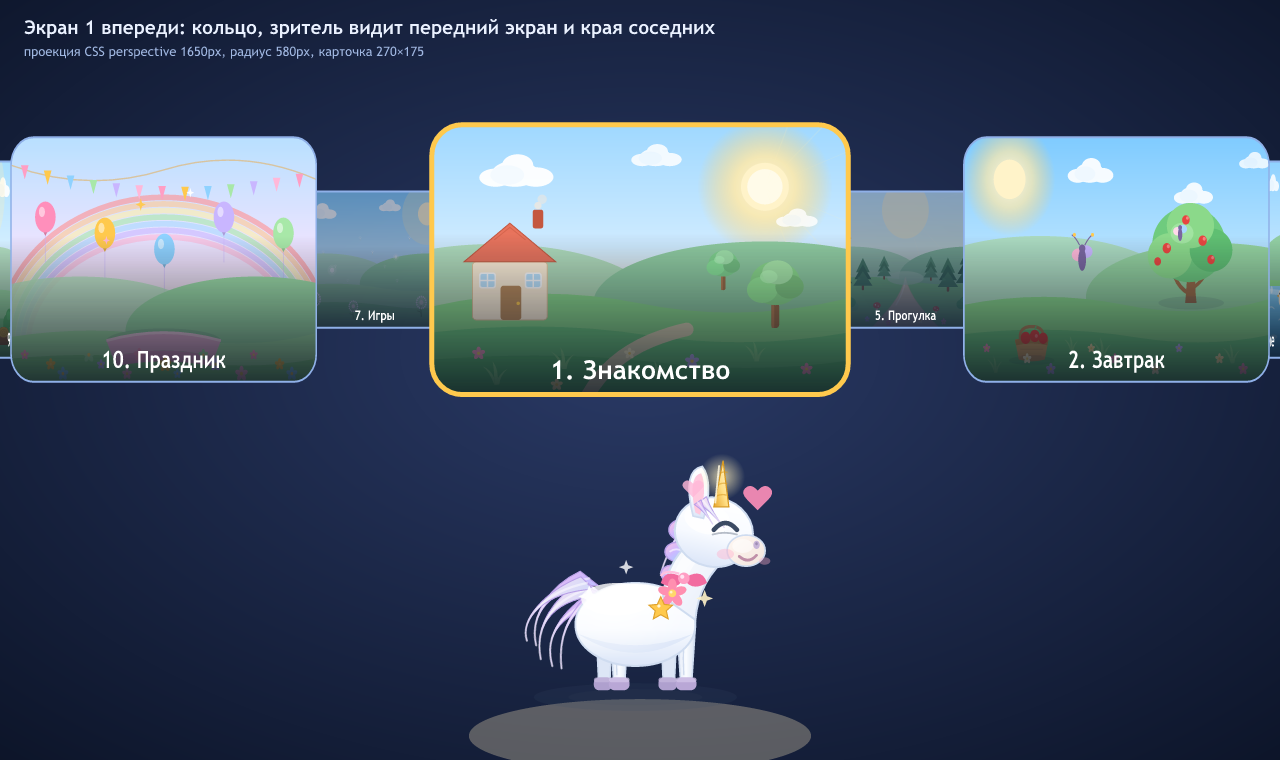
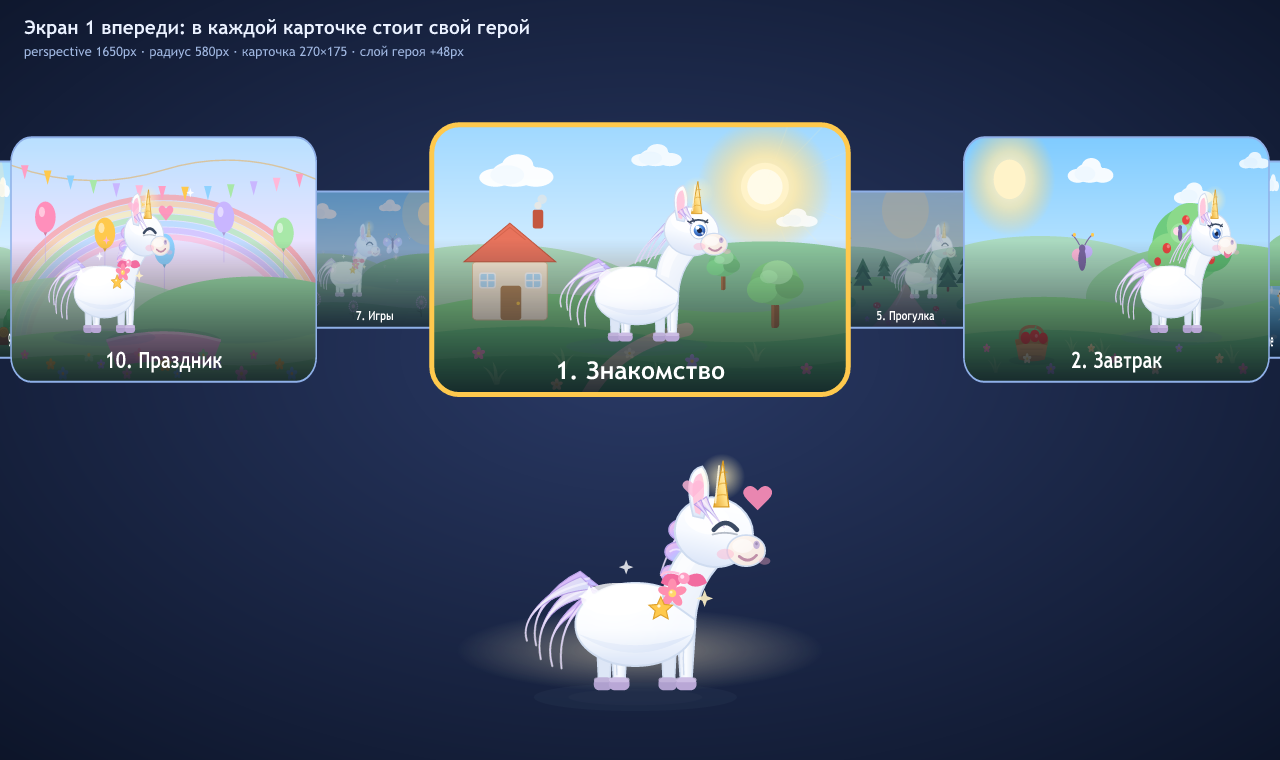
в карточках 3D-вида появились герои: отдельный слой ближе к зрителю, сцена вокруг видна

diff --git a/3d.html b/3d.html
@@ -54,19 +54,28 @@ body{
 /* кольцо экранов — поднято, чтобы внизу осталось место героине */
 #ring{position:absolute;transform:translateY(var(--lift));transform-style:preserve-3d}
 
-/* карточки экранов */
+/* карточки экранов.
+   ВАЖНО: у .card НЕТ overflow:hidden — он «сплющивает» 3D и убивает смещение героя.
+   Обрезаем фон отдельно, на .art. Герой при этом может чуть вылезать за рамку — это и даёт объём. */
 .card{position:absolute;width:var(--cw);height:var(--ch);
   left:calc(var(--cw) / -2); top:calc(var(--ch) / -2);
   transform-style:preserve-3d;
   transform:rotateY(calc(var(--i) * 36deg)) translateZ(var(--R));
-  border-radius:18px;overflow:hidden;cursor:pointer;
+  border-radius:18px;cursor:pointer;
   box-shadow:var(--sh);background:#0e1730;
   transition:box-shadow .35s ease, filter .35s ease;}
-.card .art{position:absolute;inset:0}
+.card .art{position:absolute;inset:0;border-radius:18px;overflow:hidden}
 .card .art svg{width:100%;height:100%;display:block}
-.card .veil{position:absolute;inset:0;background:linear-gradient(180deg,rgba(8,14,30,0) 40%,rgba(8,14,30,.82) 100%)}
+/* герой — отдельный слой БЛИЖЕ к зрителю: при повороте кольца он смещается относительно фона,
+   и глаз читает это как глубину. Это не 3D-модель, но объём в движении виден. */
+.card .hero3{position:absolute;left:50%;bottom:15%;width:var(--hw,48%);
+  transform:translateX(-50%) translateZ(48px);transform-origin:50% 100%;
+  filter:drop-shadow(0 12px 16px rgba(6,12,26,.6))}
+.card .hero3 svg{width:100%;height:auto;display:block;overflow:visible}
+.card .veil{position:absolute;inset:0;border-radius:18px;
+  background:linear-gradient(180deg,rgba(8,14,30,0) 42%,rgba(8,14,30,.86) 100%)}
 .card .cap{position:absolute;left:0;right:0;bottom:0;padding:8px 10px 9px;
-  display:flex;align-items:center;gap:8px}
+  display:flex;align-items:center;gap:8px;transform:translateZ(54px)}
 .card .num{flex:0 0 auto;width:26px;height:26px;border-radius:50%;
   background:rgba(255,255,255,.94);color:#3B4A63;font-weight:800;font-size:14px;
   display:flex;align-items:center;justify-content:center}
@@ -1176,6 +1185,17 @@ function setScene(name){
   node.innerHTML='<svg viewBox="0 0 800 520" preserveAspectRatio="xMidYMid slice" xmlns="http://www.w3.org/2000/svg">'+fn(p)+'</svg>';
 }
 
+function blanketSVG(){
+  return '<g>'
+    +'<path d="M62 168 q66 -26 136 0 q14 6 12 24 q-2 16 -20 16 h-120 q-18 0 -20 -16 q-2 -18 12 -24z" fill="#C9B6FF"/>'
+    +'<path d="M62 178 q66 -22 136 0 q10 4 10 14 q-2 14 -18 14 h-120 q-16 0 -18 -14 q0 -10 10 -14z" fill="#A88FE8"/>'
+    +'<circle cx="104" cy="176" r="5" fill="#FFFFFF" opacity=".75"/>'
+    +'<circle cx="150" cy="170" r="5" fill="#FFFFFF" opacity=".75"/>'
+    +'<circle cx="176" cy="180" r="4" fill="#FFFFFF" opacity=".65"/>'
+    +'<path d="M70 196 q60 -12 120 0" stroke="#8F76D8" stroke-width="2" fill="none" opacity=".6"/>'
+    +'</g>';
+}
+
 /* =========================================================
    ЧАСТЬ 2. 3D-ВИД
    ========================================================= */
@@ -1192,6 +1212,26 @@ const SCENES3D=[
   {n:10, s:'party',     t:'Праздник',   d:'Салют и диплом заботы'}
 ];
 const STEP=360/SCENES3D.length;   /* 36° между экранами */
+
+/* Кто стоит в каждой сцене. hw — ширина слоя героя в % от карточки (зависит от пропорций
+   viewBox: чем шире картинка, тем шире слой). Состояние единорожки совпадает с тем,
+   что происходит на экране: на купании грязная, после гривы — с косичкой и т.д. */
+const UNI=(o)=>unicornSVG(Object.assign({mood:'calm',mane:'messy',dirt:false,clean:false},o||{}));
+const HERO_ART=[
+  {hw:'48%', vb:'0 0 260 230', make:()=>UNI({mood:'calm'})},
+  {hw:'48%', vb:'0 0 260 230', make:()=>UNI({mood:'hungry'})},
+  {hw:'48%', vb:'0 0 260 230', make:()=>UNI({mood:'calm',dirt:true,clean:false})},
+  {hw:'48%', vb:'0 0 260 230', make:()=>UNI({mood:'calm',mane:'messy'})},
+  {hw:'48%', vb:'0 0 260 230', make:()=>UNI({mood:'happy',mane:'brushed',clean:true})},
+  {hw:'48%', vb:'0 0 260 230', make:()=>UNI({mood:'happy',mane:'braid',clean:true,acc:['bow','flower','star']})},
+  {hw:'60%', vb:'0 0 330 235', make:()=>UNI({mood:'happy',mane:'braid',clean:true,acc:['bow','flower','star']})
+      +'<g transform="translate(238,24) scale(0.52)">'+butterflySVG()+'</g>'},
+  {hw:'48%', vb:'0 0 260 230', make:()=>UNI({mood:'sleepy',mane:'braid',clean:true,acc:['bow']})+blanketSVG()},
+  {hw:'78%', vb:'0 0 430 235', make:()=>'<g transform="translate(-38,0)">'+UNI({mood:'happy',mane:'braid',clean:true})+'</g>'
+      +'<g transform="translate(222,110) scale(0.7)">'+bunnySVG({carrot:true})+'</g>'
+      +'<g transform="translate(330,125) scale(0.6)">'+birdSVG()+'</g>'},
+  {hw:'48%', vb:'0 0 260 230', make:()=>UNI({mood:'happy',mane:'braid',clean:true,acc:['bow','flower','star'],hearts:true})}
+];
 
 const world=document.getElementById('world');
 const ring=document.getElementById('ring');
@@ -1214,8 +1254,11 @@ SCENES3D.forEach((sc,i)=>{
   const c=document.createElement('div');
   c.className='card';
   c.style.setProperty('--i', i);
+  const ha=HERO_ART[i];
+  c.style.setProperty('--hw', ha.hw);
   c.innerHTML='<div class="art">'+svgWrap(SCENES[sc.s]('c3d'+i+'_'),'0 0 800 520')+'</div>'
     +'<div class="veil"></div>'
+    +'<div class="hero3">'+svgWrap(ha.make(), ha.vb)+'</div>'
     +'<div class="cap"><div class="num">'+sc.n+'</div>'
     +'<div><div class="tt">'+sc.t+'</div><div class="dd">'+sc.d+'</div></div>'
     +'<div class="go" title="Начать игру с этого экрана">▶</div></div>';

diff --git a/deploy/3d.html b/deploy/3d.html
@@ -54,19 +54,28 @@ body{
 /* кольцо экранов — поднято, чтобы внизу осталось место героине */
 #ring{position:absolute;transform:translateY(var(--lift));transform-style:preserve-3d}
 
-/* карточки экранов */
+/* карточки экранов.
+   ВАЖНО: у .card НЕТ overflow:hidden — он «сплющивает» 3D и убивает смещение героя.
+   Обрезаем фон отдельно, на .art. Герой при этом может чуть вылезать за рамку — это и даёт объём. */
 .card{position:absolute;width:var(--cw);height:var(--ch);
   left:calc(var(--cw) / -2); top:calc(var(--ch) / -2);
   transform-style:preserve-3d;
   transform:rotateY(calc(var(--i) * 36deg)) translateZ(var(--R));
-  border-radius:18px;overflow:hidden;cursor:pointer;
+  border-radius:18px;cursor:pointer;
   box-shadow:var(--sh);background:#0e1730;
   transition:box-shadow .35s ease, filter .35s ease;}
-.card .art{position:absolute;inset:0}
+.card .art{position:absolute;inset:0;border-radius:18px;overflow:hidden}
 .card .art svg{width:100%;height:100%;display:block}
-.card .veil{position:absolute;inset:0;background:linear-gradient(180deg,rgba(8,14,30,0) 40%,rgba(8,14,30,.82) 100%)}
+/* герой — отдельный слой БЛИЖЕ к зрителю: при повороте кольца он смещается относительно фона,
+   и глаз читает это как глубину. Это не 3D-модель, но объём в движении виден. */
+.card .hero3{position:absolute;left:50%;bottom:15%;width:var(--hw,48%);
+  transform:translateX(-50%) translateZ(48px);transform-origin:50% 100%;
+  filter:drop-shadow(0 12px 16px rgba(6,12,26,.6))}
+.card .hero3 svg{width:100%;height:auto;display:block;overflow:visible}
+.card .veil{position:absolute;inset:0;border-radius:18px;
+  background:linear-gradient(180deg,rgba(8,14,30,0) 42%,rgba(8,14,30,.86) 100%)}
 .card .cap{position:absolute;left:0;right:0;bottom:0;padding:8px 10px 9px;
-  display:flex;align-items:center;gap:8px}
+  display:flex;align-items:center;gap:8px;transform:translateZ(54px)}
 .card .num{flex:0 0 auto;width:26px;height:26px;border-radius:50%;
   background:rgba(255,255,255,.94);color:#3B4A63;font-weight:800;font-size:14px;
   display:flex;align-items:center;justify-content:center}
@@ -1176,6 +1185,17 @@ function setScene(name){
   node.innerHTML='<svg viewBox="0 0 800 520" preserveAspectRatio="xMidYMid slice" xmlns="http://www.w3.org/2000/svg">'+fn(p)+'</svg>';
 }
 
+function blanketSVG(){
+  return '<g>'
+    +'<path d="M62 168 q66 -26 136 0 q14 6 12 24 q-2 16 -20 16 h-120 q-18 0 -20 -16 q-2 -18 12 -24z" fill="#C9B6FF"/>'
+    +'<path d="M62 178 q66 -22 136 0 q10 4 10 14 q-2 14 -18 14 h-120 q-16 0 -18 -14 q0 -10 10 -14z" fill="#A88FE8"/>'
+    +'<circle cx="104" cy="176" r="5" fill="#FFFFFF" opacity=".75"/>'
+    +'<circle cx="150" cy="170" r="5" fill="#FFFFFF" opacity=".75"/>'
+    +'<circle cx="176" cy="180" r="4" fill="#FFFFFF" opacity=".65"/>'
+    +'<path d="M70 196 q60 -12 120 0" stroke="#8F76D8" stroke-width="2" fill="none" opacity=".6"/>'
+    +'</g>';
+}
+
 /* =========================================================
    ЧАСТЬ 2. 3D-ВИД
    ========================================================= */
@@ -1192,6 +1212,26 @@ const SCENES3D=[
   {n:10, s:'party',     t:'Праздник',   d:'Салют и диплом заботы'}
 ];
 const STEP=360/SCENES3D.length;   /* 36° между экранами */
+
+/* Кто стоит в каждой сцене. hw — ширина слоя героя в % от карточки (зависит от пропорций
+   viewBox: чем шире картинка, тем шире слой). Состояние единорожки совпадает с тем,
+   что происходит на экране: на купании грязная, после гривы — с косичкой и т.д. */
+const UNI=(o)=>unicornSVG(Object.assign({mood:'calm',mane:'messy',dirt:false,clean:false},o||{}));
+const HERO_ART=[
+  {hw:'48%', vb:'0 0 260 230', make:()=>UNI({mood:'calm'})},
+  {hw:'48%', vb:'0 0 260 230', make:()=>UNI({mood:'hungry'})},
+  {hw:'48%', vb:'0 0 260 230', make:()=>UNI({mood:'calm',dirt:true,clean:false})},
+  {hw:'48%', vb:'0 0 260 230', make:()=>UNI({mood:'calm',mane:'messy'})},
+  {hw:'48%', vb:'0 0 260 230', make:()=>UNI({mood:'happy',mane:'brushed',clean:true})},
+  {hw:'48%', vb:'0 0 260 230', make:()=>UNI({mood:'happy',mane:'braid',clean:true,acc:['bow','flower','star']})},
+  {hw:'60%', vb:'0 0 330 235', make:()=>UNI({mood:'happy',mane:'braid',clean:true,acc:['bow','flower','star']})
+      +'<g transform="translate(238,24) scale(0.52)">'+butterflySVG()+'</g>'},
+  {hw:'48%', vb:'0 0 260 230', make:()=>UNI({mood:'sleepy',mane:'braid',clean:true,acc:['bow']})+blanketSVG()},
+  {hw:'78%', vb:'0 0 430 235', make:()=>'<g transform="translate(-38,0)">'+UNI({mood:'happy',mane:'braid',clean:true})+'</g>'
+      +'<g transform="translate(222,110) scale(0.7)">'+bunnySVG({carrot:true})+'</g>'
+      +'<g transform="translate(330,125) scale(0.6)">'+birdSVG()+'</g>'},
+  {hw:'48%', vb:'0 0 260 230', make:()=>UNI({mood:'happy',mane:'braid',clean:true,acc:['bow','flower','star'],hearts:true})}
+];
 
 const world=document.getElementById('world');
 const ring=document.getElementById('ring');
@@ -1214,8 +1254,11 @@ SCENES3D.forEach((sc,i)=>{
   const c=document.createElement('div');
   c.className='card';
   c.style.setProperty('--i', i);
+  const ha=HERO_ART[i];
+  c.style.setProperty('--hw', ha.hw);
   c.innerHTML='<div class="art">'+svgWrap(SCENES[sc.s]('c3d'+i+'_'),'0 0 800 520')+'</div>'
     +'<div class="veil"></div>'
+    +'<div class="hero3">'+svgWrap(ha.make(), ha.vb)+'</div>'
     +'<div class="cap"><div class="num">'+sc.n+'</div>'
     +'<div><div class="tt">'+sc.t+'</div><div class="dd">'+sc.d+'</div></div>'
     +'<div class="go" title="Начать игру с этого экрана">▶</div></div>';

diff --git a/_3d_template.html b/_3d_template.html
@@ -54,19 +54,28 @@ body{
 /* кольцо экранов — поднято, чтобы внизу осталось место героине */
 #ring{position:absolute;transform:translateY(var(--lift));transform-style:preserve-3d}
 
-/* карточки экранов */
+/* карточки экранов.
+   ВАЖНО: у .card НЕТ overflow:hidden — он «сплющивает» 3D и убивает смещение героя.
+   Обрезаем фон отдельно, на .art. Герой при этом может чуть вылезать за рамку — это и даёт объём. */
 .card{position:absolute;width:var(--cw);height:var(--ch);
   left:calc(var(--cw) / -2); top:calc(var(--ch) / -2);
   transform-style:preserve-3d;
   transform:rotateY(calc(var(--i) * 36deg)) translateZ(var(--R));
-  border-radius:18px;overflow:hidden;cursor:pointer;
+  border-radius:18px;cursor:pointer;
   box-shadow:var(--sh);background:#0e1730;
   transition:box-shadow .35s ease, filter .35s ease;}
-.card .art{position:absolute;inset:0}
+.card .art{position:absolute;inset:0;border-radius:18px;overflow:hidden}
 .card .art svg{width:100%;height:100%;display:block}
-.card .veil{position:absolute;inset:0;background:linear-gradient(180deg,rgba(8,14,30,0) 40%,rgba(8,14,30,.82) 100%)}
+/* герой — отдельный слой БЛИЖЕ к зрителю: при повороте кольца он смещается относительно фона,
+   и глаз читает это как глубину. Это не 3D-модель, но объём в движении виден. */
+.card .hero3{position:absolute;left:50%;bottom:15%;width:var(--hw,48%);
+  transform:translateX(-50%) translateZ(48px);transform-origin:50% 100%;
+  filter:drop-shadow(0 12px 16px rgba(6,12,26,.6))}
+.card .hero3 svg{width:100%;height:auto;display:block;overflow:visible}
+.card .veil{position:absolute;inset:0;border-radius:18px;
+  background:linear-gradient(180deg,rgba(8,14,30,0) 42%,rgba(8,14,30,.86) 100%)}
 .card .cap{position:absolute;left:0;right:0;bottom:0;padding:8px 10px 9px;
-  display:flex;align-items:center;gap:8px}
+  display:flex;align-items:center;gap:8px;transform:translateZ(54px)}
 .card .num{flex:0 0 auto;width:26px;height:26px;border-radius:50%;
   background:rgba(255,255,255,.94);color:#3B4A63;font-weight:800;font-size:14px;
   display:flex;align-items:center;justify-content:center}
@@ -187,6 +196,26 @@ const SCENES3D=[
 ];
 const STEP=360/SCENES3D.length;   /* 36° между экранами */
 
+/* Кто стоит в каждой сцене. hw — ширина слоя героя в % от карточки (зависит от пропорций
+   viewBox: чем шире картинка, тем шире слой). Состояние единорожки совпадает с тем,
+   что происходит на экране: на купании грязная, после гривы — с косичкой и т.д. */
+const UNI=(o)=>unicornSVG(Object.assign({mood:'calm',mane:'messy',dirt:false,clean:false},o||{}));
+const HERO_ART=[
+  {hw:'48%', vb:'0 0 260 230', make:()=>UNI({mood:'calm'})},
+  {hw:'48%', vb:'0 0 260 230', make:()=>UNI({mood:'hungry'})},
+  {hw:'48%', vb:'0 0 260 230', make:()=>UNI({mood:'calm',dirt:true,clean:false})},
+  {hw:'48%', vb:'0 0 260 230', make:()=>UNI({mood:'calm',mane:'messy'})},
+  {hw:'48%', vb:'0 0 260 230', make:()=>UNI({mood:'happy',mane:'brushed',clean:true})},
+  {hw:'48%', vb:'0 0 260 230', make:()=>UNI({mood:'happy',mane:'braid',clean:true,acc:['bow','flower','star']})},
+  {hw:'60%', vb:'0 0 330 235', make:()=>UNI({mood:'happy',mane:'braid',clean:true,acc:['bow','flower','star']})
+      +'<g transform="translate(238,24) scale(0.52)">'+butterflySVG()+'</g>'},
+  {hw:'48%', vb:'0 0 260 230', make:()=>UNI({mood:'sleepy',mane:'braid',clean:true,acc:['bow']})+blanketSVG()},
+  {hw:'78%', vb:'0 0 430 235', make:()=>'<g transform="translate(-38,0)">'+UNI({mood:'happy',mane:'braid',clean:true})+'</g>'
+      +'<g transform="translate(222,110) scale(0.7)">'+bunnySVG({carrot:true})+'</g>'
+      +'<g transform="translate(330,125) scale(0.6)">'+birdSVG()+'</g>'},
+  {hw:'48%', vb:'0 0 260 230', make:()=>UNI({mood:'happy',mane:'braid',clean:true,acc:['bow','flower','star'],hearts:true})}
+];
+
 const world=document.getElementById('world');
 const ring=document.getElementById('ring');
 
@@ -208,8 +237,11 @@ SCENES3D.forEach((sc,i)=>{
   const c=document.createElement('div');
   c.className='card';
   c.style.setProperty('--i', i);
+  const ha=HERO_ART[i];
+  c.style.setProperty('--hw', ha.hw);
   c.innerHTML='<div class="art">'+svgWrap(SCENES[sc.s]('c3d'+i+'_'),'0 0 800 520')+'</div>'
     +'<div class="veil"></div>'
+    +'<div class="hero3">'+svgWrap(ha.make(), ha.vb)+'</div>'
     +'<div class="cap"><div class="num">'+sc.n+'</div>'
     +'<div><div class="tt">'+sc.t+'</div><div class="dd">'+sc.d+'</div></div>'
     +'<div class="go" title="Начать игру с этого экрана">▶</div></div>';

diff --git a/deploy/index.html b/deploy/index.html
@@ -1385,6 +1385,17 @@ function setScene(name){
   node.innerHTML='<svg viewBox="0 0 800 520" preserveAspectRatio="xMidYMid slice" xmlns="http://www.w3.org/2000/svg">'+fn(p)+'</svg>';
 }
 
+function blanketSVG(){
+  return '<g>'
+    +'<path d="M62 168 q66 -26 136 0 q14 6 12 24 q-2 16 -20 16 h-120 q-18 0 -20 -16 q-2 -18 12 -24z" fill="#C9B6FF"/>'
+    +'<path d="M62 178 q66 -22 136 0 q10 4 10 14 q-2 14 -18 14 h-120 q-16 0 -18 -14 q0 -10 10 -14z" fill="#A88FE8"/>'
+    +'<circle cx="104" cy="176" r="5" fill="#FFFFFF" opacity=".75"/>'
+    +'<circle cx="150" cy="170" r="5" fill="#FFFFFF" opacity=".75"/>'
+    +'<circle cx="176" cy="180" r="4" fill="#FFFFFF" opacity=".65"/>'
+    +'<path d="M70 196 q60 -12 120 0" stroke="#8F76D8" stroke-width="2" fill="none" opacity=".6"/>'
+    +'</g>';
+}
+
 /* =========================================================
    K. ЭКРАНЫ СКАЗКИ
    ========================================================= */
@@ -1830,17 +1841,6 @@ const SCREENS = [
       root.appendChild(box); root.appendChild(hint); root.appendChild(row); root.appendChild(card);
     } }
 ];
-
-function blanketSVG(){
-  return '<g>'
-    +'<path d="M62 168 q66 -26 136 0 q14 6 12 24 q-2 16 -20 16 h-120 q-18 0 -20 -16 q-2 -18 12 -24z" fill="#C9B6FF"/>'
-    +'<path d="M62 178 q66 -22 136 0 q10 4 10 14 q-2 14 -18 14 h-120 q-16 0 -18 -14 q0 -10 10 -14z" fill="#A88FE8"/>'
-    +'<circle cx="104" cy="176" r="5" fill="#FFFFFF" opacity=".75"/>'
-    +'<circle cx="150" cy="170" r="5" fill="#FFFFFF" opacity=".75"/>'
-    +'<circle cx="176" cy="180" r="4" fill="#FFFFFF" opacity=".65"/>'
-    +'<path d="M70 196 q60 -12 120 0" stroke="#8F76D8" stroke-width="2" fill="none" opacity=".6"/>'
-    +'</g>';
-}
 
 /* =========================================================
    L. НАВИГАЦИЯ И ФИНАЛ

diff --git a/index.html b/index.html
@@ -1385,6 +1385,17 @@ function setScene(name){
   node.innerHTML='<svg viewBox="0 0 800 520" preserveAspectRatio="xMidYMid slice" xmlns="http://www.w3.org/2000/svg">'+fn(p)+'</svg>';
 }
 
+function blanketSVG(){
+  return '<g>'
+    +'<path d="M62 168 q66 -26 136 0 q14 6 12 24 q-2 16 -20 16 h-120 q-18 0 -20 -16 q-2 -18 12 -24z" fill="#C9B6FF"/>'
+    +'<path d="M62 178 q66 -22 136 0 q10 4 10 14 q-2 14 -18 14 h-120 q-16 0 -18 -14 q0 -10 10 -14z" fill="#A88FE8"/>'
+    +'<circle cx="104" cy="176" r="5" fill="#FFFFFF" opacity=".75"/>'
+    +'<circle cx="150" cy="170" r="5" fill="#FFFFFF" opacity=".75"/>'
+    +'<circle cx="176" cy="180" r="4" fill="#FFFFFF" opacity=".65"/>'
+    +'<path d="M70 196 q60 -12 120 0" stroke="#8F76D8" stroke-width="2" fill="none" opacity=".6"/>'
+    +'</g>';
+}
+
 /* =========================================================
    K. ЭКРАНЫ СКАЗКИ
    ========================================================= */
@@ -1830,17 +1841,6 @@ const SCREENS = [
       root.appendChild(box); root.appendChild(hint); root.appendChild(row); root.appendChild(card);
     } }
 ];
-
-function blanketSVG(){
-  return '<g>'
-    +'<path d="M62 168 q66 -26 136 0 q14 6 12 24 q-2 16 -20 16 h-120 q-18 0 -20 -16 q-2 -18 12 -24z" fill="#C9B6FF"/>'
-    +'<path d="M62 178 q66 -22 136 0 q10 4 10 14 q-2 14 -18 14 h-120 q-16 0 -18 -14 q0 -10 10 -14z" fill="#A88FE8"/>'
-    +'<circle cx="104" cy="176" r="5" fill="#FFFFFF" opacity=".75"/>'
-    +'<circle cx="150" cy="170" r="5" fill="#FFFFFF" opacity=".75"/>'
-    +'<circle cx="176" cy="180" r="4" fill="#FFFFFF" opacity=".65"/>'
-    +'<path d="M70 196 q60 -12 120 0" stroke="#8F76D8" stroke-width="2" fill="none" opacity=".6"/>'
-    +'</g>';
-}
 
 /* =========================================================
    L. НАВИГАЦИЯ И ФИНАЛ

diff --git a/_sz.js b/_sz.js
@@ -1,0 +1,9 @@
+const fs=require('fs');
+let t=fs.readFileSync('_3d_template.html','utf8');
+let n=0;
+/* 56% -> 48%, 66% -> 60%, 84% -> 78%: герой чуть меньше карточки, сцена видна вокруг */
+[['hw:/'56%\'','hw:/'48%\''],['hw:/'66%\'','hw:/'60%\''],['hw:/'84%\'','hw:/'78%\''],['--hw,56%','--hw,48%']].forEach(([a,b])=>{
+  const c=t.split(a).length-1; n+=c; t=t.split(a).join(b);
+});
+fs.writeFileSync('_3d_template.html',t);
+console.log('заменено вхождений: '+n);
